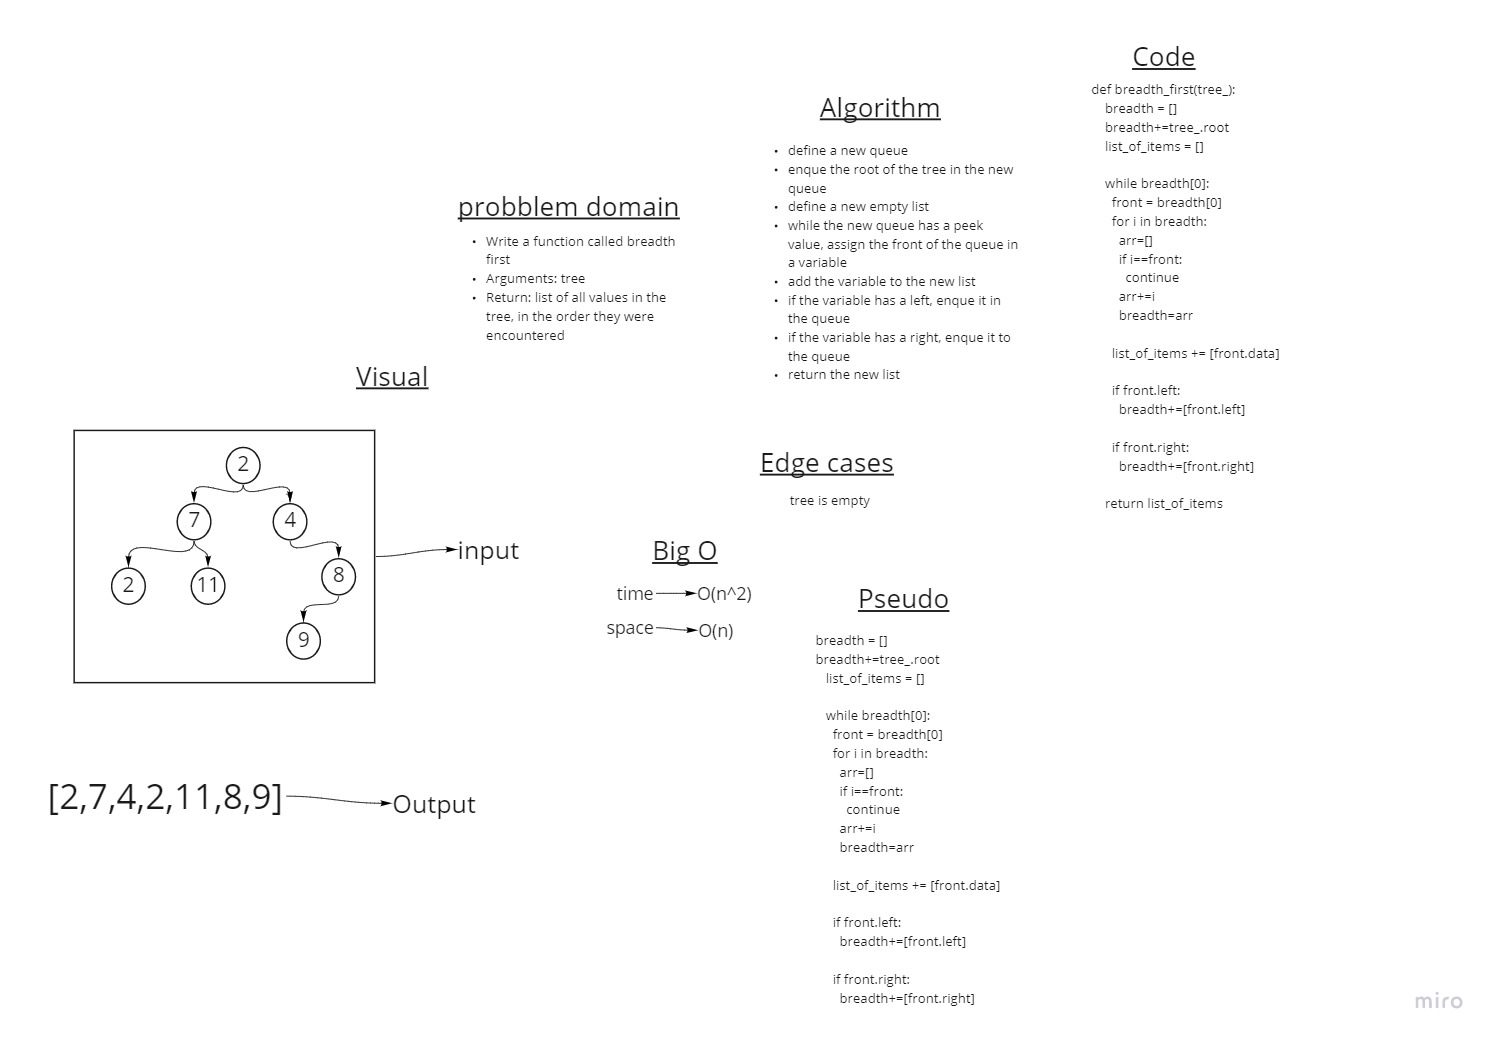
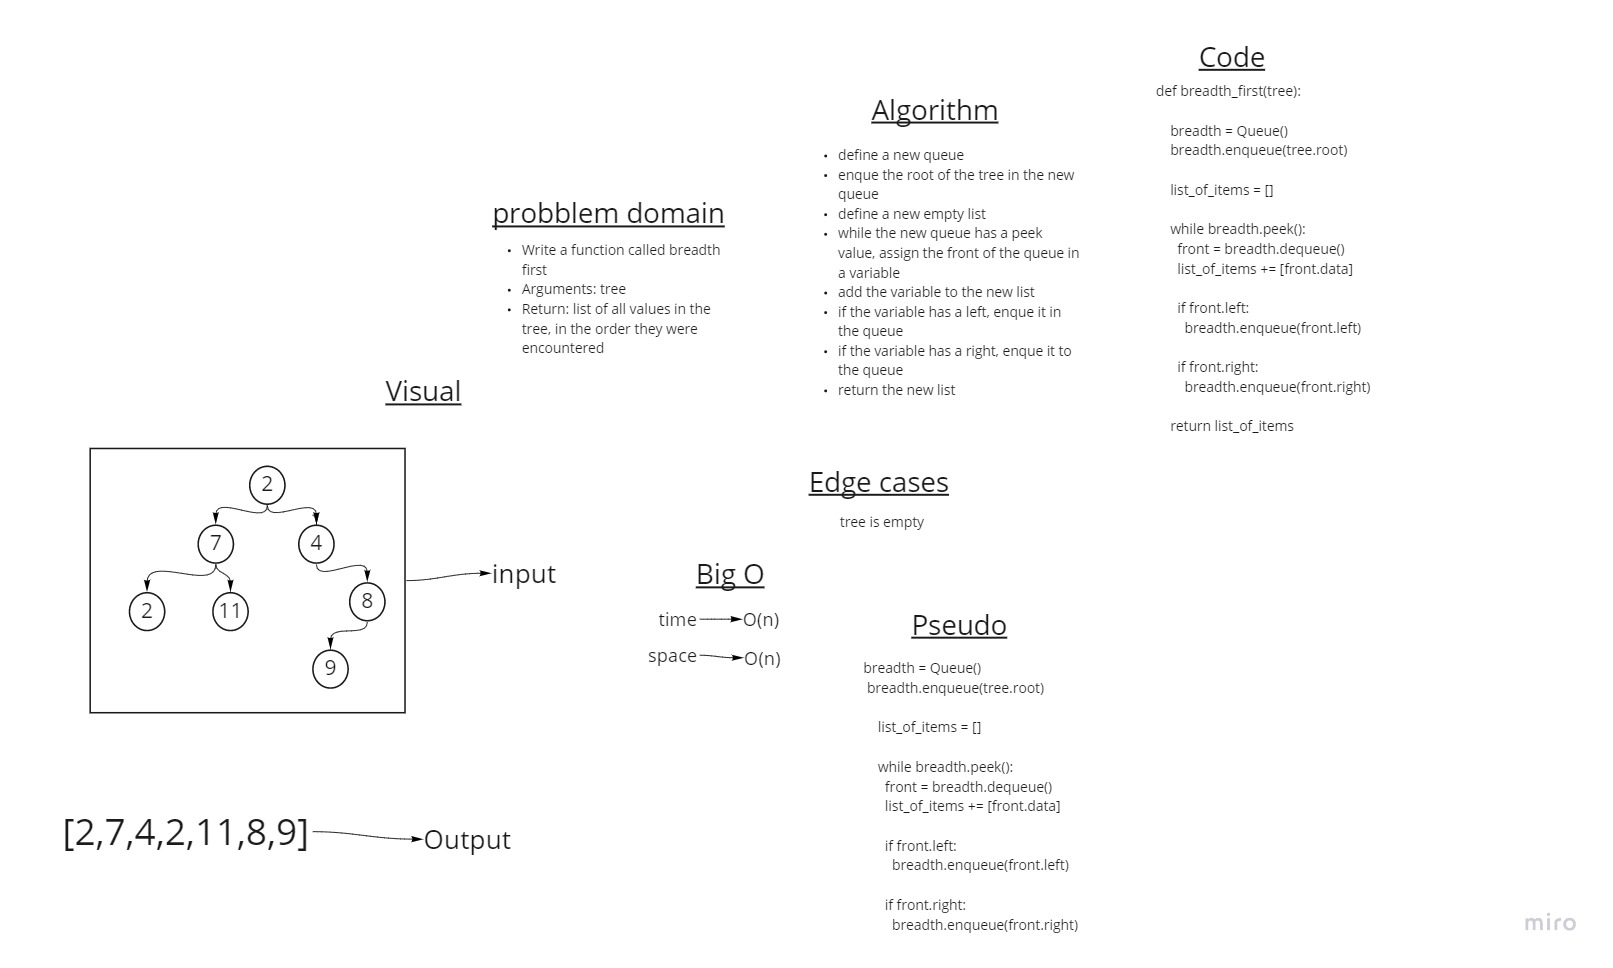
challange 17

diff --git a/python/trees/tests/test_trees.py b/python/trees/tests/test_trees.py
@@ -2,6 +2,7 @@ from trees import __version__
 from trees.trees import BinaryTree
 from trees.trees import Binary_search
 from trees.trees import Node
+from trees.breadth_first import breadth_first
 import pytest
 
 
@@ -221,3 +222,22 @@ def test_trees_max_empty():
    with pytest.raises(Exception):
        tree = Binary_search()
        actual = tree.tree_max()
+
+
+def test_beadth_first():
+  expected=[1234, 2, 3, 4, 1123, 950]
+  tree=BinaryTree()
+  a_node = Node(1234)
+  b_node = Node(2)
+  c_node = Node(3)
+  d_node = Node(4)
+  e_node=Node(1123)
+  f_node=Node(950)
+  a_node.left = b_node
+  a_node.right = c_node
+  b_node.left = d_node
+  c_node.left=e_node
+  e_node.left=f_node
+  tree.root=a_node
+  actual = breadth_first(tree)
+  assert actual==expected

diff --git a/python/trees/trees/breadth_first.py b/python/trees/trees/breadth_first.py
@@ -1,23 +1,20 @@
-def breadth_first(tree_):
-    breadth = []
-    breadth+=tree_.root
+from trees.trees import Queue
+
+def breadth_first(tree):
+    
+    breadth = Queue()
+    breadth.enqueue(tree.root)
+
     list_of_items = []
 
-    while breadth[0]:
-      front = breadth[0]
-      for i in breadth:
-        arr=[]
-        if i==front:
-          continue
-        arr+=i
-        breadth=arr
-
+    while breadth.peek():
+      front = breadth.dequeue()
       list_of_items += [front.data]
 
       if front.left:
-        breadth+=[front.left]
+        breadth.enqueue(front.left)
 
       if front.right:
-        breadth+=[front.right]
+        breadth.enqueue(front.right)
 
     return list_of_items

diff --git a/python/trees/trees/trees.py b/python/trees/trees/trees.py
@@ -33,9 +33,7 @@ class BinaryTree:
 
     output: tree items
     """
-    # Queue breadth <-- new Queue()
     breadth = Queue()
-    # breadth.enqueue(root)
     breadth.enqueue(self.root)
 
     list_of_items = []
